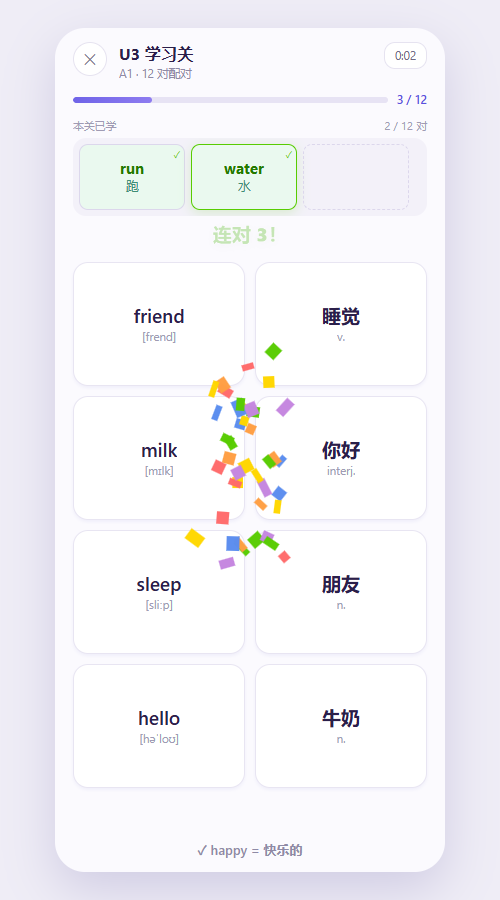
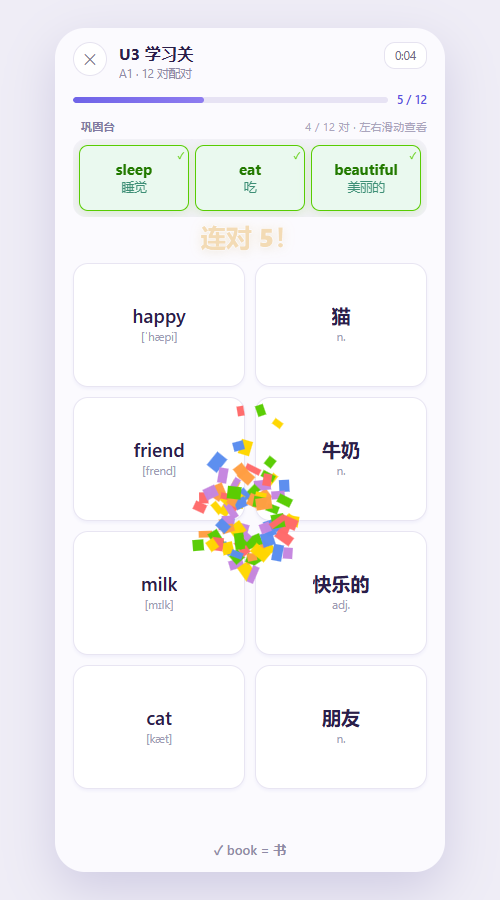
巩固台加标题「巩固台」并彻底去掉横向滚动条
- 左侧标签「本关已学」→「巩固台」，padding 与第一个格子左边缘对齐、加字重
- 不再用 overflow 原生横滚：overflow:hidden + JS translateX，pointerdown/move/up
  自己接管拖动（松手按速度外推），任何平台都不会冒出滚动条
- shelfMax 改按可视内容宽（clientWidth 扣左右 padding），修最后一格贴不满右边缘
- 槽宽 --slotW 按台子宽度自适应：(可视宽-12)/3，一屏正好 3 格铺满不留缝
- 删掉 shelfAutoScroll / shelfScrollTimer / scroll 监听
- 截图按新样式重出，README 与 game-redesign.md 增第十二节

diff --git a/design/game-v2.html b/design/game-v2.html
@@ -66,25 +66,33 @@
   /* ---------- 巩固台 ---------- */
   .shelfwrap { flex: none; padding: 12px 18px 0; }
   .shelflabel {
-    font-size: 10.5px; color: #A09BB4; letter-spacing: .3px;
-    margin-bottom: 5px; display: flex; justify-content: space-between;
+    font-size: 11px; color: #A09BB4; letter-spacing: .3px;
+    margin-bottom: 5px; padding-left: 8px;
+    display: flex; justify-content: space-between; align-items: baseline;
   }
+  /* 左边是台子名字（跟第一个框左对齐），右边是计数/提示 */
+  .shelflabel .name { font-weight: 600; color: #8079A2; }
+  .shelflabel #shelfHint { color: #AAA5BC; font-variant-numeric: tabular-nums; }
+  /* 台子自己不做原生滚动：`overflow: hidden` + JS 平移轨道。
+     原生横滑在桌面/安卓会画一条滚动条（手机应用里已经很少见），
+     而且惯性、回弹各平台不一致 —— 干脆自己接管。 */
   .shelf {
     height: 78px; padding: 6px; border-radius: 13px; background: #F3F1F9;
-    overflow-x: auto; overflow-y: hidden; position: relative;
-    scrollbar-width: none; -webkit-overflow-scrolling: touch;
-    scroll-snap-type: x proximity;
+    overflow: hidden; position: relative;
+    touch-action: pan-y; user-select: none; -webkit-user-select: none;
   }
-  .shelf::-webkit-scrollbar { display: none; }
-  /* 轨道：一关的词全留在这儿，横着排、可以左右滑。
+  /* 轨道：一关的词全留在这儿，横着排、手指可以左右拖。
      槽宽 106 → 一屏正好露出 3 格 + 第 4 格的一条边，能看出「后面还有」。 */
   .track {
     display: flex; flex-wrap: nowrap; gap: 6px; height: 100%;
     width: max-content;
+    will-change: transform;
   }
   .slot {
     position: relative; border-radius: 9px;
-    flex: 0 0 106px;
+    /* 一屏正好 3 格：槽宽由 JS 按台子宽度算（--slotW），
+       这样开局三个空框刚好铺满，右边不留一条灰缝。 */
+    flex: 0 0 var(--slotW, 106px);
     scroll-snap-align: start;
     border: 1px dashed #DCD7EC; background: transparent;
     display: flex; flex-direction: column; align-items: center; justify-content: center;
@@ -275,7 +283,7 @@
 
   <div class="shelfwrap">
     <div class="shelflabel">
-      <span>本关已学</span>
+      <span class="name">巩固台</span>
       <span id="shelfHint">配对成功的词会停在这里</span>
     </div>
     <div class="shelf" id="shelf">
@@ -711,9 +719,11 @@
   // 只有「新词刚进来」时才把轨道推到最右；用户往回翻的时候不去抢他的位置。
   let shelfQueue = [];
   let shelfBusy = false;
-  let shelfPinned = true;        // 轨道停在最右（跟随新词）？
-  let shelfAutoScroll = false;   // 正在被程序滚向最右（此时的 scroll 不算用户操作）
-  let shelfScrollTimer = null;
+  let shelfX = 0;              // 轨道已经往左推了多少 px
+  let shelfMax = 0;            // 最大可推距离
+  let shelfPinned = true;      // 轨道贴着最右（跟随新词）？
+  let shelfDrag = null;
+  let shelfPadX = 12;          // 台子左右 padding 之和（renderShelf 时读一次）
 
   function enqueueShelf(item) {
     shelfQueue.push(item);
@@ -750,27 +760,74 @@
     done();
   }
 
-  /// 只有停在轨道最右（也就是在「跟拍」）时才滚过去。
+  /// 量一下还能推多远。`width: max-content` 让轨道宽度恒等于内容宽度，
+  /// 和 transform 无关，所以拖到哪儿量出来都一样。
   ///
-  /// 滚过去的途中会连续触发 scroll，如果不打标记，中途那几帧会被判成
-  /// 「用户自己往回翻了」，`shelfPinned` 直接变 false，轨道就停在半路不跟了。
-  function followShelf() {
-    if (!shelfPinned) return;
-    shelfAutoScroll = true;
-    shelfEl.scrollTo({ left: shelfEl.scrollWidth, behavior: 'smooth' });
-    clearTimeout(shelfScrollTimer);
-    // 兜底：某些环境里 smooth 被降级成瞬移，scroll 事件可能一次都不来
-    shelfScrollTimer = setTimeout(() => { shelfAutoScroll = false; }, 500);
+  /// 注意用「可视内容宽」而不是 clientWidth：台子左右各有 6px padding，
+  /// 拿 clientWidth 当可视宽会少推 12px，最后一格永远露一条边贴着右边。
+  function shelfMeasure() {
+    shelfMax = Math.max(0, trackEl.scrollWidth - (shelfEl.clientWidth - shelfPadX));
+    return shelfMax;
   }
 
-  shelfEl.addEventListener('scroll', () => {
-    const atEnd = shelfEl.scrollLeft + shelfEl.clientWidth >= shelfEl.scrollWidth - 24;
-    if (shelfAutoScroll) {
-      if (atEnd) shelfAutoScroll = false;
-      return;
+  /// 槽宽跟着台子宽度走：一屏正好 3 格（含 6px 间隙），铺满不留缝。
+  /// 之后每多一格就往右长一格，第 4 格刚好露一条边，暗示还能拖。
+  function layoutSlots() {
+    const inner = shelfEl.clientWidth - shelfPadX;
+    const w = Math.floor((inner - 12) / 3);
+    if (w > 40) {
+      trackEl.style.setProperty('--slotW', w + 'px');
+      shelfPushTo(shelfX, false);
     }
-    shelfPinned = atEnd || shelfEl.scrollWidth <= shelfEl.clientWidth + 4;
+  }
+
+  /// 把轨道推到 x（x = 已经往左推的距离）
+  function shelfPushTo(x, animate) {
+    shelfMeasure();
+    shelfX = Math.max(0, Math.min(x, shelfMax));
+    trackEl.style.transition = animate
+      ? 'transform .34s cubic-bezier(.25,.8,.3,1)'
+      : 'none';
+    trackEl.style.transform = 'translateX(' + (-shelfX) + 'px)';
+  }
+
+  /// 只有停在最右（也就是在「跟拍」）时才推过去。
+  /// 用户正往回翻的时候不抢他的位置 —— 刚学的词回头还能看到。
+  function followShelf() {
+    if (!shelfPinned) return;
+    shelfPushTo(shelfMeasure(), true);
+  }
+
+  // 拖动：用 pointer 事件，鼠标和手指一套逻辑。
+  // 不做原生滚动，所以任何平台都不会冒出横向滚动条。
+  shelfEl.addEventListener('pointerdown', (e) => {
+    if (shelfMeasure() <= 0) return;
+    shelfDrag = { x: e.clientX, x0: shelfX, t0: performance.now() };
+    trackEl.style.transition = 'none';
+    try { shelfEl.setPointerCapture(e.pointerId); } catch (_) {}
   });
+
+  shelfEl.addEventListener('pointermove', (e) => {
+    if (!shelfDrag) return;
+    shelfPushTo(shelfDrag.x0 - (e.clientX - shelfDrag.x), false);
+  });
+
+  function shelfEndDrag(e) {
+    if (!shelfDrag) return;
+    // 甩一下多滑一段：按最后一帧的速度外推，最少 0 最多半屏
+    const dt = Math.max(1, performance.now() - shelfDrag.t0);
+    const v = (e.clientX - shelfDrag.x) / dt;      // px/ms，向左为负
+    const glide = Math.max(-160, Math.min(0, -v * 170));
+    shelfDrag = null;
+    shelfPushTo(shelfX + glide, true);
+    setTimeout(() => {
+      shelfMeasure();
+      shelfPinned = shelfX >= shelfMax - 8;
+    }, 360);
+  }
+  shelfEl.addEventListener('pointerup', shelfEndDrag);
+  shelfEl.addEventListener('pointercancel', shelfEndDrag);
+  window.addEventListener('resize', layoutSlots);
 
   // 补位规则：英文列固定当锚点，中文列整列重排
   //
@@ -883,6 +940,8 @@
   function renderShelf() {
     shelfQueue = [];
     shelfBusy = false;
+    const cs = getComputedStyle(shelfEl);
+    shelfPadX = parseFloat(cs.paddingLeft) + parseFloat(cs.paddingRight);
     trackEl.style.transition = 'none';
     trackEl.style.transform = 'translateX(0)';
     trackEl.innerHTML = '';
@@ -892,8 +951,11 @@
       el.dataset.slot = k;
       trackEl.appendChild(el);
     }
-    shelfEl.scrollLeft = 0;
+    shelfX = 0;
+    shelfMax = 0;
+    shelfDrag = null;
     shelfPinned = true;
+    layoutSlots();
     updateShelfHint();
   }
 

diff --git a/design/game-redesign.md b/design/game-redesign.md
@@ -243,11 +243,12 @@ Flutter 移植后补自动化测试：巩固台最多 3 个、挤出顺序、补
 
 2. **巩固台不再丢词：整关都留着，可以横滑回看**
    一关只有 20 个词，把「常驻 3 格 + 满了整条左移」换成一条**横向滚动轨道**：
-   - 槽宽 106dp，一屏正好露 3 格 + 第 4 格一条边，看得出来后面还有
+   - 槽宽 106dp（第十二节改成按台子宽度自适应），一屏正好 3 格
    - 开局 3 个虚线坑当占位，填满后一直往右加格，最多 20 格（一关 10 对）
    - 新词落位时轨道跟到最右；用户往回翻（不在最右）就不抢他的位置，
      靠 `shelfPinned` 判断，滚回去自己看刚学的词不会被打断
-   - 标签从「刚配对」改成「本关已学」，右侧计数 `8 / 12 对 · 左右滑动查看`
+   - 标签从「刚配对」改成「本关已学」（三轮后定名「巩固台」，见第十二节），
+     右侧计数 `8 / 12 对 · 左右滑动查看`
    - 因此删掉了 `landOnShelf` 里的左移动画、`SHIFT_MS`、`compact()` 收拢逻辑
 
 3. **最后 4 对不再消失，原地置灰**
@@ -261,3 +262,34 @@ Flutter 移植后补自动化测试：巩固台最多 3 个、挤出顺序、补
 
 截图：`shots/g2-mid.png`（开局 / 巩固台刚起步）、`g2-end.png`（8/12，轨道已满可横滑）、
 `g2-grey.png`（11/12，配对过的原地置灰）、`g2-finish.png`（结算）。
+
+## 十二、三轮微调：标题、去滚动条、槽宽自适应（2026-11-18）
+
+又两条意见，都只动 `design/game-v2.html`：
+
+1. **台子有名字了：「巩固台」**
+   开局三个空框太空，不知道这一条是干什么用的。把左侧标签从「本关已学」改成
+   **「巩固台」**，`padding-left: 8px` 让它和下方第一个框的左边缘对齐（而不是贴在
+   整条左上角的边上），11px / 600 字重，右侧提示文字同步调淡 —— 一行里主次分明。
+
+2. **不再出现横向滚动条**
+   原来用 `overflow-x: auto` + 隐藏滚动条样式。桌面 Chrome、部分安卓 WebView、
+   iOS 的 overlay 滚动条都会在滑动时画一条出来，手机应用里已经很少见这种控件。
+   现在改成**自己接管拖动**：
+   - `.shelf { overflow: hidden; touch-action: pan-y; }`，轨道 `transform: translateX()`
+   - `pointerdown / pointermove / pointerup`（鼠标和手指一套逻辑），松手按最后一帧速度外推
+     `min(0, -v*170)` 最多 160px，再缓动收尾
+   - `shelfX / shelfMax / shelfPinned` 三个状态替代原来的 `scrollLeft / scrollWidth`
+   - 新词落位照旧「贴着最右才跟拍」，用户往回拖过之后不抢位置
+   - 因此 `shelfAutoScroll`、`shelfScrollTimer`、scroll 监听全部删掉，逻辑反而更短
+
+   > 两个量出来的坑：
+   > 1. `shelfMax` 要用**可视内容宽**（`clientWidth − 左右 padding`），拿 `clientWidth`
+   >    会少推 12px，最后一格永远露一条白边贴不满右边缘。
+   > 2. 台子 342 宽、三格 106 + 两道 6px 间隙 = 330，右边会剩 12px 灰缝，看着像没对齐。
+
+3. **槽宽自适应**：`flex: 0 0 var(--slotW)`，`--slotW = (可视宽 − 12) / 3`，
+   由 `layoutSlots()` 在开局和 `resize` 时算。一屏永远正好 3 格、铺满不留缝，
+   第 4 格起往右长，拖动时才露出前面被切掉的格子。
+
+截图已按新样式重出：`shots/g2-start|mid|end|grey|finish.png`。

diff --git a/design/README.md b/design/README.md
@@ -21,7 +21,7 @@
 | `game-a-desk.html` | 游戏界面方案 A · 卡片桌（经典左右分栏，卡牌有厚度） |
 | `game-b-link.html` | 游戏界面方案 B · 连线（极简白底，配对画贝塞尔曲线） |
 | `game-c-merge.html` | 游戏界面方案 C · 消消乐混排（深紫底、打乱混排、粒子动效） |
-| `game-v2.html` | **游戏页定稿**：4 行棋盘 + 顶部「本关已学」横滑轨道 + 最后 4 对置灰 |
+| `game-v2.html` | **游戏页定稿**：4 行棋盘 + 顶部「巩固台」横滑轨道（自绘拖动，无滚动条）+ 最后 4 对置灰 |
 | `shots/` | 每次改版的整页截图（无头 Chrome 出图） |
 
 ## 工作流（每个新功能照这个顺序）
@@ -43,7 +43,8 @@
 ## 已定稿规则（原型确认过的）
 
 - **一关 20 词（10 对）**，一屏 4 对 8 张；配对成功直接收走（不抖），从词池原位补位
-- **巩固台不丢词**：配对成功的词按顺序排进一条可横滑的轨道，一关学的词全在里面（`game-v2.html`）
+- **巩固台不丢词**：配对成功的词按顺序排进一条可左右拖的轨道，一关学的词全在里面；
+  槽宽按台子宽度自适应（一屏正好 3 格），原生滚动换成 JS 平移，所以任何平台都不出现滚动条（`game-v2.html`）
 - **最后 4 对不消失**：词池空了就是收尾，这几对配完原地置灰留在盘上，结算判定按配对数量算
 - **错词回流**：配错进重试队列，隔 2~3 次成功配对后重现，直到配对正确才计过关
 - **每 5 关一个复习关**（U6、U12…），复习前 5 关全部词
